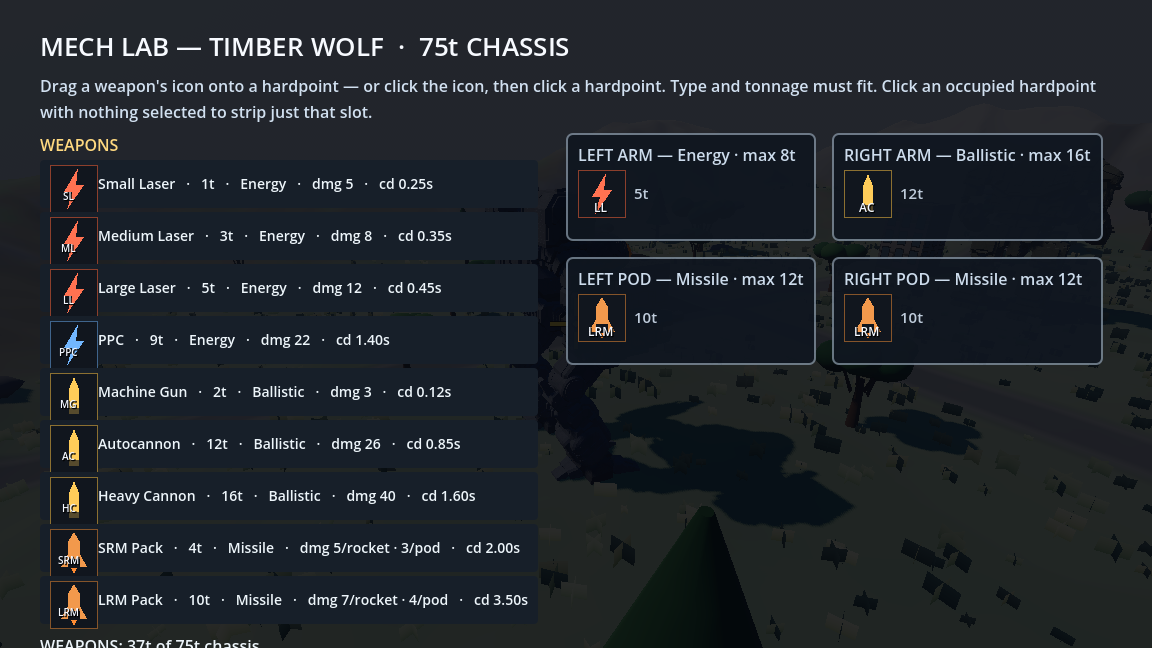
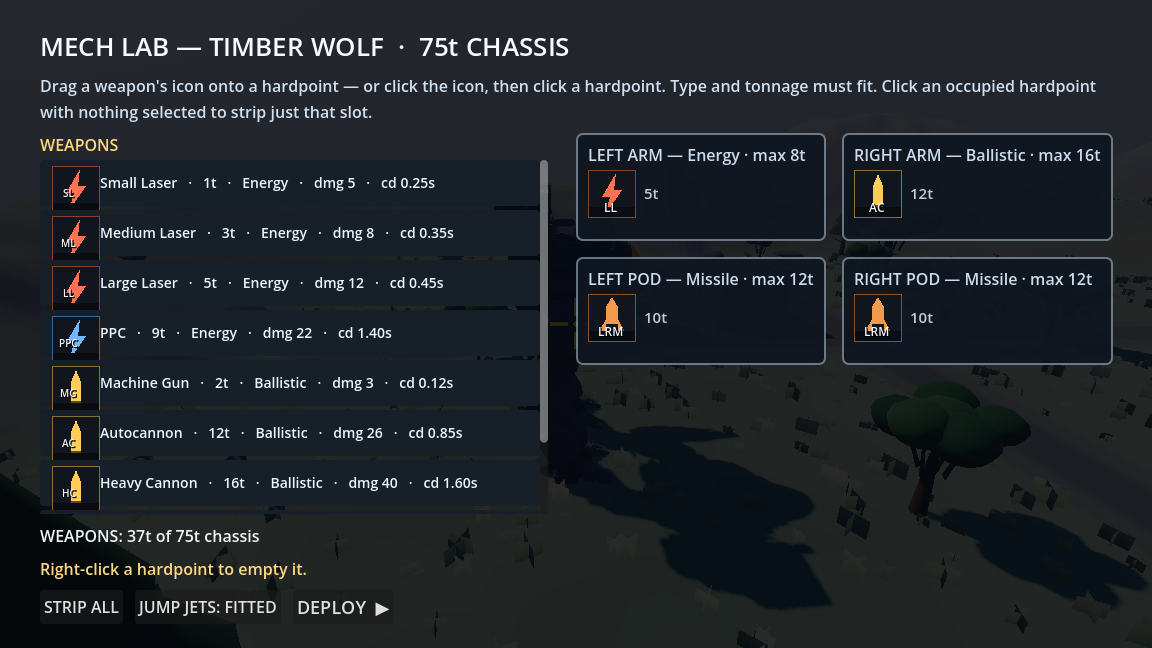
lab: tile fit, scrollable catalog, right-click through tile, abbreviation band (owner)
Rows get an explicit 46px height with the 34px tile shrink-centered inside (was clipped by the row band); tile-to-name gap widened to 14px. The weapon catalog now lives in a ScrollContainer — all nine weapons no longer need to fit the screen at once. The slot tile ignores the mouse, so right-clicking the ICON strips the slot like right-clicking anywhere else on the panel. Icons gain a baked-in dark band at the base: abbreviations sit on near-black instead of over the bright silhouette. Verified in a captured frame (proof/lab.png).

diff --git a/godot/MechLab.cs b/godot/MechLab.cs
@@ -121,6 +121,17 @@ public partial class MechLab : Control
                 Poly(new Color(1f, 0.55f, 0.2f), new Vector2(21, 39), new Vector2(27, 39), new Vector2(24, 45));
                 break;
         }
+        // Contrast band (owner): the abbreviation sits on this
+        // dark strip instead of over the bright silhouette.
+        var band = new Color(0.04f, 0.05f, 0.07f, 1f);
+        for (int y = 37; y < 47; y++)
+            for (int x = 1; x < 47; x++)
+                img.SetPixel(x, y, band);
+        for (int i = 0; i < 48; i++)
+        {
+            img.SetPixel(i, 0, border); img.SetPixel(i, 47, border);
+            img.SetPixel(0, i, border); img.SetPixel(47, i, border);
+        }
         var tex = ImageTexture.CreateFromImage(img);
         _icons[w.Id] = tex;
         return tex;
@@ -211,25 +222,37 @@ public partial class MechLab : Control
         var catTitle = new Label { Text = "WEAPONS" };
         catTitle.AddThemeColorOverride("font_color", new Color(1f, 0.85f, 0.5f));
         catBox.AddChild(catTitle);
+        // The catalog scrolls (owner): the full list outgrows the
+        // screen height once tiles made the rows taller.
+        var scroll = new ScrollContainer { HorizontalScrollMode = ScrollContainer.ScrollMode.Disabled };
+        scroll.SizeFlagsVertical = SizeFlags.ExpandFill;
+        scroll.SizeFlagsHorizontal = SizeFlags.ExpandFill;
+        catBox.AddChild(scroll);
+        var rowsBox = new VBoxContainer();
+        rowsBox.AddThemeConstantOverride("separation", 4);
+        rowsBox.SizeFlagsHorizontal = SizeFlags.ExpandFill;
+        scroll.AddChild(rowsBox);
         foreach (var w in WeaponCatalog.All)
         {
             // Row = [draggable tile] + inert text (owner: drag and
             // click live on the square icon, not the text).
-            var rowPanel = new PanelContainer();
+            var rowPanel = new PanelContainer { CustomMinimumSize = new Vector2(0, 46) };
             StyleBoxFlat RowBox(Color c)
             {
-                var b = new StyleBoxFlat { BgColor = c, ContentMarginLeft = 10f, ContentMarginRight = 10f, ContentMarginTop = 5f, ContentMarginBottom = 5f };
+                var b = new StyleBoxFlat { BgColor = c, ContentMarginLeft = 12f, ContentMarginRight = 10f, ContentMarginTop = 6f, ContentMarginBottom = 6f };
                 b.SetCornerRadiusAll(4);
                 return b;
             }
             rowPanel.AddThemeStyleboxOverride("panel", RowBox(new Color(0.09f, 0.12f, 0.16f, 1f)));
             var hb = new HBoxContainer();
-            hb.AddThemeConstantOverride("separation", 10);
+            hb.AddThemeConstantOverride("separation", 14); // clear gap between tile and name (owner)
             rowPanel.AddChild(hb);
             var drag = new DragTile { WeaponId = w.Id, Lab = this };
             drag.MouseEntered += () => drag.Modulate = new Color(1.3f, 1.3f, 1.3f);
             drag.MouseExited += () => drag.Modulate = Colors.White;
-            hb.AddChild(TileVisual(w, 38, drag));
+            var tileCtl = TileVisual(w, 34, drag);
+            tileCtl.SizeFlagsVertical = SizeFlags.ShrinkCenter; // the tile fits INSIDE the row band (owner)
+            hb.AddChild(tileCtl);
             var lab = new Label
             {
                 Text = $"{w.Name}   ·   {w.Weight:F0}t   ·   {w.Type}   ·   dmg {w.Damage:F0}{(w.Rockets > 0 ? $"/rocket · {w.Rockets}/pod" : "")}   ·   cd {w.Cooldown:F2}s",
@@ -239,7 +262,7 @@ public partial class MechLab : Control
             lab.AddThemeFontSizeOverride("font_size", 14);
             lab.AddThemeColorOverride("font_color", new Color(0.93f, 0.96f, 0.98f));
             hb.AddChild(lab);
-            catBox.AddChild(rowPanel);
+            rowsBox.AddChild(rowPanel);
         }
 
         // -- Hardpoints (right): paperdoll-ish 2x2 --
@@ -269,7 +292,7 @@ public partial class MechLab : Control
             var tileRow = new HBoxContainer();
             tileRow.AddThemeConstantOverride("separation", 10);
             vb.AddChild(tileRow);
-            panel.Tile = new Control { CustomMinimumSize = new Vector2(46, 46) };
+            panel.Tile = new Control { CustomMinimumSize = new Vector2(46, 46), MouseFilter = MouseFilterEnum.Ignore }; // input falls through to the panel: right-click on the tile still strips the slot
             panel.TileTex = new TextureRect { StretchMode = TextureRect.StretchModeEnum.KeepAspectCentered, MouseFilter = MouseFilterEnum.Ignore };
             panel.TileTex.SetAnchorsAndOffsetsPreset(Control.LayoutPreset.FullRect);
             panel.Tile.AddChild(panel.TileTex);
